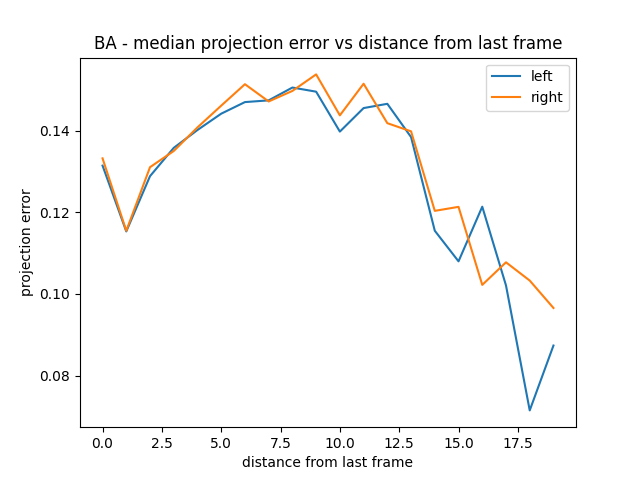
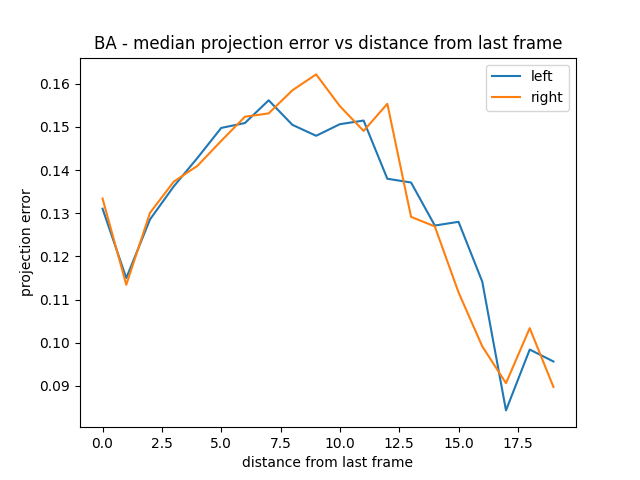
project - wip

diff --git a/VAN_ex/code/RunOverOtherData.py b/VAN_ex/code/RunOverOtherData.py
@@ -1,0 +1,148 @@
+import os
+
+import numpy as np
+from matplotlib import pyplot as plt
+import plotly.graph_objs as go
+import cv2 as cv
+
+from VAN_ex.code import utils
+from VAN_ex.code.Bundle.BundleAdjustment import BundleAdjustment
+from VAN_ex.code.DB.DataBase import DataBase
+from VAN_ex.code.LoopClosure import LoopClosure
+from VAN_ex.code.PoseGraph import PoseGraph
+from VAN_ex.code.ProjectReport import from_gtsam_poses_to_world_coordinates_mats, slice_cov_mat_to_localization_angle
+
+OUTPUT_DIR = 'results/run_over_other_data/'
+os.makedirs(OUTPUT_DIR, exist_ok=True)
+
+
+def show_locations_trajectory(ground_truth_locations, pnp_locations, bundle_adjustment_locations,
+                              loop_closure_locations):
+    fig, ax = plt.subplots(figsize=(19.2, 14.4))
+    ax.scatter(x=ground_truth_locations[:, 0], y=ground_truth_locations[:, 2],
+               label='Ground Truth', s=10, alpha=0.4, c='tab:blue')
+    ax.scatter(x=pnp_locations[:, 0], y=pnp_locations[:, 2],
+               label='PnP', s=10, alpha=0.7, c='tab:orange')
+    ax.scatter(x=bundle_adjustment_locations[:, 0], y=bundle_adjustment_locations[:, 2],
+               label='Bundle Adjustment', s=30, alpha=0.7, c='tab:green')
+    ax.scatter(x=loop_closure_locations[:, 0], y=loop_closure_locations[:, 2],
+               label='Loop Closure', s=30, alpha=0.7, c='tab:red')
+    ax.legend(fontsize='20')
+    ax.set_title('Loclization Trajectory - bird eye view')
+    plt.xlabel('x')
+    plt.ylabel('z')
+    plt.savefig(f'{OUTPUT_DIR}localization.png')
+
+
+def present_tracking_statistics(database):
+    print("Total number of tracks: ", database.get_tracks_number())
+    print("Number of frames: ", database.get_frames_number())
+    mean, max_t, min_t = database.get_mean_max_and_min_track_len()
+    print(f"Mean track length: {mean}\nMaximum track length: {max_t}\nMinimum track length: {min_t}")
+    print("Mean number of tracks on average frame: ", database.get_mean_number_of_tracks_on_frame())
+
+
+def plot_location_error_along_axes(ground_truth, estimation, title, keyframes_list):
+    # ground truth and estimation is list of locations (vector with 3 coordinates)
+    diff = np.abs(ground_truth - estimation)
+    x_error = diff[:, 0]
+    y_error = diff[:, 1]
+    z_error = diff[:, 2]
+    norm_error = np.sum(diff ** 2, axis=-1) ** 0.5
+    fig = go.Figure()
+    fig.add_trace(go.Scatter(x=keyframes_list, y=x_error, mode='lines', name='x'))
+    fig.add_trace(go.Scatter(x=keyframes_list, y=y_error, mode='lines', name='y'))
+    fig.add_trace(go.Scatter(x=keyframes_list, y=z_error, mode='lines', name='z'))
+    fig.add_trace(go.Scatter(x=keyframes_list, y=norm_error, mode='lines', name='norm'))
+
+    fig.update_layout(title=f'Axes Estimation Error - {title}', xaxis_title='Keyframe id', yaxis_title='error')
+    fig.write_image(f'{OUTPUT_DIR}axes_estimation_error_{title}.png')
+
+def plot_angle_error(ground_truth_matrices, estimation_mats, title, keyframes_list):
+    length = ground_truth_matrices.shape[0]
+    angle_error = np.empty(length)
+    for i in range(length):
+        gt_vec, _ = cv.Rodrigues(ground_truth_matrices[i][:, 3])
+        est_vec, _ = cv.Rodrigues(estimation_mats[i][:, 3])
+        angle_error[i] = np.linalg.norm(gt_vec - est_vec)
+    fig = go.Figure()
+    fig.add_trace(go.Scatter(x=keyframes_list, y=angle_error, mode='lines', name='angle'))
+
+    fig.update_layout(title=f'Angle Estimation Error - {title}', xaxis_title='Keyframe id', yaxis_title='error')
+    fig.write_image(f'{OUTPUT_DIR}angle_estimation_error_{title}.png')
+
+
+def plot_uncertainty(cov_list_before, cov_list_after, keyframes, title):
+    det_cov_before = [np.sqrt(np.linalg.det(before_cov)) for before_cov in cov_list_before]
+    det_cov_after = [np.sqrt(np.linalg.det(after_cov)) for after_cov in cov_list_after]
+    keyframes = np.array(keyframes)
+    det_cov_before = np.array(det_cov_before)
+    det_cov_after = np.array(det_cov_after)
+
+    fig = plt.figure()
+    plt.title(f"{title} uncertainty before and after Loop Closure")
+    plt.plot(keyframes, det_cov_before, label="Before")
+    plt.plot(keyframes, det_cov_after, label="After")
+    plt.yscale('log')
+    plt.ylabel("uncertainty -sqrt covariance determinate (log scale)")
+    plt.xlabel("Keyframe")
+    plt.legend()
+
+    ax = plt.gca()
+    ax.set_yticklabels([])
+
+    fig.savefig(f'{OUTPUT_DIR}{title}_uncertainty_before_after_loop_closure.png')
+    plt.close(fig)
+
+
+def run_over_other_data():
+    ground_truth_mats = np.array(utils.read_ground_truth_matrices(utils.GROUND_TRUTH_PATH))
+    ground_truth_locations = utils.calculate_ground_truth_locations_from_matrices(ground_truth_mats)
+
+    db = DataBase()
+
+    db.fill_database(utils.FRAMES_NUM)
+    db.save_database(utils.DB_PATH)
+
+    # db.read_database(utils.DB_PATH)
+
+    pnp_mats = db.get_left_camera_mats_in_world_coordinates()
+    pnp_locations = utils.calculate_ground_truth_locations_from_matrices(pnp_mats)
+
+    bundle_adjustment = BundleAdjustment(utils.FRAMES_NUM, 20, db)
+    bundle_adjustment.optimize_all_windows()
+    bundle_adjustment_poses = bundle_adjustment.get_global_keyframes_poses()  # dict
+    bundle_adjustment_mats = from_gtsam_poses_to_world_coordinates_mats(bundle_adjustment_poses)
+    bundle_adjustment_locations = \
+        BundleAdjustment.from_poses_to_locations(bundle_adjustment_poses)
+
+    pose_graph = PoseGraph(bundle_adjustment)
+    loop_closure = LoopClosure(db, pose_graph, threshold_close=500,
+                               threshold_inliers_rel=0.4)
+    full_cov_before_LC = np.array(pose_graph.get_covraince_all_poses())
+    loops_dict = loop_closure.find_loops('', plot=False)
+    full_cov_after_LC = np.array(pose_graph.get_covraince_all_poses())
+    loop_closure_poses = pose_graph.get_global_keyframes_poses()  # dict
+    loop_closure_mats = from_gtsam_poses_to_world_coordinates_mats(loop_closure_poses)
+    loop_closure_locations = BundleAdjustment.from_poses_to_locations(loop_closure_poses)
+
+    show_locations_trajectory(ground_truth_locations, pnp_locations, bundle_adjustment_locations,
+                              loop_closure_locations)
+
+    present_tracking_statistics(db)
+
+    keyframes_list = bundle_adjustment.get_keyframes()
+    ground_truth_mats_of_keyframes = ground_truth_mats[keyframes_list]
+    ground_truth_locations_of_keyframes = ground_truth_locations[keyframes_list]
+
+    plot_location_error_along_axes(ground_truth_locations_of_keyframes, loop_closure_locations, 'LC', keyframes_list)
+    plot_angle_error(ground_truth_mats_of_keyframes, loop_closure_mats, 'LC')
+
+    # uncertainty size vs keyframes
+    covs_angle_before, covs_location_before = slice_cov_mat_to_localization_angle(full_cov_before_LC)
+    covs_angle_after, covs_location_after = slice_cov_mat_to_localization_angle(full_cov_after_LC)
+    plot_uncertainty(covs_angle_before, covs_angle_after, keyframes_list, "Angle")
+    plot_uncertainty(covs_location_before, covs_location_after, keyframes_list, "Location")
+
+if __name__ == '__main__':
+    run_over_other_data()

diff --git a/VAN_ex/code/ProjectReport.py b/VAN_ex/code/ProjectReport.py
@@ -104,6 +104,7 @@ def PnP_median_projection_error_per_distance():
     distances = np.array(sorted(right_projection_err.keys()))
     median_proj_err_left = np.array([statistics.median(left_projection_err[d]) for d in distances])
     median_proj_err_right = np.array([statistics.median(right_projection_err[d]) for d in distances])
+    links_num_per_distance = np.array([len(right_projection_err[d]) for d in distances])
 
     fig = plt.figure()
     plt.title('PnP - median projection error vs track length')
@@ -115,6 +116,8 @@ def PnP_median_projection_error_per_distance():
 
     fig.savefig(f'{OUTPUT_DIR}PnP_median_projection_error_vs_track_length.png')
     plt.close(fig)
+
+    return distances, links_num_per_distance
 
     # fig = go.Figure()
     # fig.add_trace(go.Scatter(x=distances, y=median_proj_err_left, mode='lines', name='left'))
@@ -138,7 +141,8 @@ def from_gtsam_poses_to_world_coordinates_mats(poses_dict):
 
 
 def BA_median_projection_error_per_distance():
-    distances, median_proj_err_left, median_proj_err_right = bundle_adjustment.get_median_projection_error_per_distance()
+    distances, median_proj_err_left, median_proj_err_right, links_num_per_distance =\
+        bundle_adjustment.get_median_projection_error_per_distance()
     fig = plt.figure()
     plt.title('BA - median projection error vs distance from last frame')
     plt.plot(distances, median_proj_err_left, label='left')
@@ -149,6 +153,8 @@ def BA_median_projection_error_per_distance():
 
     fig.savefig(f'{OUTPUT_DIR}BA_median_projection_error_vs_distance_from_last_frame.png')
     plt.close(fig)
+
+    return distances, links_num_per_distance
 
     # distances, median_proj_err_left, median_proj_err_right = bundle_adjustment.get_median_projection_error_per_distance()
     # fig = go.Figure()
@@ -205,20 +211,31 @@ def plot_uncertainty(cov_list_before, cov_list_after, keyframes, title):
     det_cov_before = np.array(det_cov_before)
     det_cov_after = np.array(det_cov_after)
 
-    fig = plt.figure()
-    plt.title(f"{title} uncertainty before and after Loop Closure")
-    plt.plot(keyframes, det_cov_before, label="Before")
-    plt.plot(keyframes, det_cov_after, label="After")
-    plt.yscale('log')
-    plt.ylabel("uncertainty -sqrt covariance determinate (log scale)")
+    fig, ax = plt.subplots()
+    ax.plot(keyframes, det_cov_before, label='Before')
+    ax.plot(keyframes, det_cov_after, label='After')
+    ax.legend()
+    ax.set_title(f"{title} uncertainty before and after Loop Closure")
     plt.xlabel("Keyframe")
-    plt.legend()
+    plt.ylabel("uncertainty -sqrt covariance determinate (log scale)")
+    plt.yscale('log')
+    ax.get_yaxis().set_visible(False)
+    plt.savefig(f'{OUTPUT_DIR}{title}_uncertainty_before_after_loop_closure.png')
 
-    ax = plt.gca()
-    ax.set_yticklabels([])
-
-    fig.savefig(f'{OUTPUT_DIR}{title}_uncertainty_before_after_loop_closure.png')
-    plt.close(fig)
+    # fig = plt.figure()
+    # plt.title(f"{title} uncertainty before and after Loop Closure")
+    # plt.plot(keyframes, det_cov_before, label="Before")
+    # plt.plot(keyframes, det_cov_after, label="After")
+    # plt.yscale('log')
+    # plt.ylabel("uncertainty -sqrt covariance determinate (log scale)")
+    # plt.xlabel("Keyframe")
+    # plt.legend()
+    #
+    # ax = plt.gca()
+    # ax.set_yticklabels([])
+    #
+    # fig.savefig(f'{OUTPUT_DIR}{title}_uncertainty_before_after_loop_closure.png')
+    # plt.close(fig)
 
 
 def slice_cov_mat_to_localization_angle(cov_list):
@@ -276,8 +293,11 @@ def relative_estimation_error_in_sequences(estimation_mats, gt_mats, gt_location
 def plot_relative_estimation_error_in_sequences(title_model, title_error_type, list_seq_len, list_errors, list_sequences_list):
     fig = plt.figure()
     plt.title(f"Relative {title_model} estimation {title_error_type} error with sequences of")
+    avg = 0
     for i, seq_len in enumerate(list_seq_len):
         plt.plot(list_sequences_list[i], list_errors[i], label=str(seq_len))
+        avg += np.average(list_errors[i])
+    avg = avg / len(list_seq_len)
     if title_error_type == 'location':
         plt.ylabel("error (m/m)")
     else:
@@ -289,6 +309,22 @@ def plot_relative_estimation_error_in_sequences(title_model, title_error_type, l
     plt.legend()
     fig.savefig(f'{OUTPUT_DIR}{title_model}_{title_error_type}_relative_estimation_error_in_seq.png')
     plt.close(fig)
+    print(f"Relative {title_model} estimation error - Avarege {title_error_type} error of all the sequences: {avg}")
+
+
+def plot_links_num_per_distance(pnp_distances, pnp_links_num_per_distance, ba_distances, ba_links_num_per_distance):
+    fig = plt.figure()
+    plt.title('Links Number Per Distance From Last Frame - PnP vs BA')
+    plt.plot(pnp_distances, pnp_links_num_per_distance, label='PnP')
+    plt.plot(ba_distances, ba_links_num_per_distance, label='BA')
+    plt.ylabel('Links Num')
+    plt.xlabel('distance from last frame')
+    plt.legend()
+    plt.yscale('log')
+
+    fig.savefig(f'{OUTPUT_DIR}links_num_per_distance.png')
+    plt.close(fig)
+
 
 
 if __name__ == '__main__':
@@ -347,9 +383,11 @@ if __name__ == '__main__':
         (keyframes_list, median_projection_error_before, median_projection_error_after,
          'median projection error')
 
-    PnP_median_projection_error_per_distance()  # distance from last frame of track were we computed triangulation
+    pnp_distances, pnp_links_num_per_distance = PnP_median_projection_error_per_distance()  # distance from last frame of track were we computed triangulation
 
-    BA_median_projection_error_per_distance()  # distance from last frame of min(track, window) were we computed triangulation
+    ba_distances, ba_links_num_per_distance = BA_median_projection_error_per_distance()  # distance from last frame of min(track, window) were we computed triangulation
+
+    plot_links_num_per_distance(pnp_distances, pnp_links_num_per_distance, ba_distances, ba_links_num_per_distance)
 
     ground_truth_mats_of_keyframes = ground_truth_mats[keyframes_list]
     ground_truth_locations_of_keyframes = ground_truth_locations[keyframes_list]

diff --git a/VAN_ex/code/DB/DataBase.py b/VAN_ex/code/DB/DataBase.py
@@ -257,10 +257,11 @@ class DataBase:
         p, eps = 0.99, 0.99  # eps = prob to be outlier
         i = 0
         size = len(matches)
+        print("matches number between frames: ", size)
         max_supporters_num = 0
         idxs_max_supports_matches = None
         while eps > 0 and i < utils.calc_max_iterations(p, eps, 4):
-            points_2d, points_3d = self._sample_4_points(first_frame_id, second_frame_id, matches)
+            points_2d, points_3d = self._sample_4_points_with_filter(first_frame_id, second_frame_id, matches)
             extrinsic_camera_mat_second_frame_left, extrinsic_camera_mat_second_frame_right = \
                 utils.estimate_second_frame_mats_pnp(points_2d, points_3d, Frame.INDENTATION_RIGHT_CAM_MAT, Frame.k)
             if extrinsic_camera_mat_second_frame_left is None:
@@ -292,6 +293,7 @@ class DataBase:
                                                           extrinsic_camera_mat_second_frame_right)
         matches = np.array(matches)
         idxs_max_supports_matches = np.array(idxs_max_supports_matches)
+        print("supporters num ", idxs_max_supports_matches.shape[0])
         return extrinsic_camera_mat_second_frame_left, matches[idxs_max_supports_matches], \
             (len(idxs_max_supports_matches) / len(matches)) * 100
 
@@ -304,6 +306,26 @@ class DataBase:
             points_3d[i] = self._frames_dict[first_frame_id].get_3d_point(cur_match[0])
             pixel_left, pixel_right = self._frames_dict[second_frame_id].get_feature_pixels(cur_match[1])
             points_2d[i] = np.array(pixel_left)
+        return points_2d, points_3d
+
+    def _sample_4_points_with_filter(self, first_frame_id, second_frame_id, matches):
+        rand_idxs = set()
+        points_3d = np.empty((4, 3))
+        points_2d = np.empty((4, 2))
+        i = 0
+        while i < 4:
+            rand_idx = random.randint(0, len(matches)-1)
+            if rand_idx in rand_idxs:
+                continue
+            rand_idxs.add(rand_idx)
+            cur_match = matches[rand_idx]  # kp_idx of first frame, kp_idx of second frame
+            point_3d = self._frames_dict[first_frame_id].get_3d_point(cur_match[0])
+            if point_3d[2] > 200 or point_3d[2] <= 0:
+                continue
+            points_3d[i] = point_3d
+            pixel_left, pixel_right = self._frames_dict[second_frame_id].get_feature_pixels(cur_match[1])
+            points_2d[i] = np.array(pixel_left)
+            i += 1
         return points_2d, points_3d
 
     def _find_supporters(self, first_frame_id, second_frame_id, matches, extrinsic_camera_mat_second_frame_left,

diff --git a/VAN_ex/code/utils.py b/VAN_ex/code/utils.py
@@ -6,10 +6,17 @@ import plotly.express as px
 import plotly.graph_objs as go
 from matplotlib import pyplot as plt
 
+# current year data
 DATA_PATH = r'/mnt/c/Users/Miryam/SLAM/VAN_ex/dataset/sequences/05/'
 DB_PATH = r'/mnt/c/Users/Miryam/SLAM/VAN_ex/code/DB/'
 GROUND_TRUTH_PATH = '/mnt/c/Users/Miryam/SLAM/VAN_ex/dataset/poses/05.txt'
 FRAMES_NUM = 2560
+
+# last year data
+# DATA_PATH = r'/mnt/c/Users/Miryam/SLAM/VAN_ex/dataset_last_year/sequences/00/'
+# DB_PATH = r'/mnt/c/Users/Miryam/SLAM/VAN_ex/code/DB_last_year/'
+# GROUND_TRUTH_PATH = '/mnt/c/Users/Miryam/SLAM/VAN_ex/dataset_last_year/poses/00.txt'
+# FRAMES_NUM = 3450
 
 
 def read_images(idx):

diff --git a/VAN_ex/code/Bundle/BundleAdjustment.py b/VAN_ex/code/Bundle/BundleAdjustment.py
@@ -94,7 +94,8 @@ class BundleAdjustment:
         distances = np.array(sorted(projection_error_right.keys()))
         median_proj_err_left = np.array([statistics.median(projection_error_left[d]) for d in distances])
         median_proj_err_right = np.array([statistics.median(projection_error_right[d]) for d in distances])
-        return distances, median_proj_err_left, median_proj_err_right
+        links_num_per_distance = np.array([len(projection_error_right[d]) for d in distances])
+        return distances, median_proj_err_left, median_proj_err_right, links_num_per_distance
 
     def get_window_len(self):
         return self._window_len

diff --git a/VAN_ex/code/Bundle/BundleWindow.py b/VAN_ex/code/Bundle/BundleWindow.py
@@ -267,7 +267,6 @@ class BundleWindow:
                 pt_2d_proj = stereo_cam.project(pt_3d)
                 diff = pt_2d_real - pt_2d_proj
                 diff = np.array([diff.uL(), diff.uR(), diff.v()])
-                first_frame = max(self._first_keyframe_id, track_obj.get_first_frame_id())
                 d = last_frame_id - frame_id
                 if d in projection_error_left:
                     projection_error_left[d].append(np.linalg.norm(diff[[0, 2]]))
